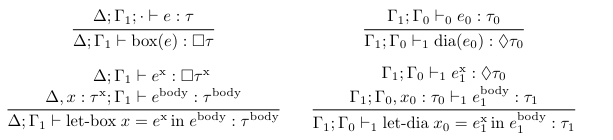
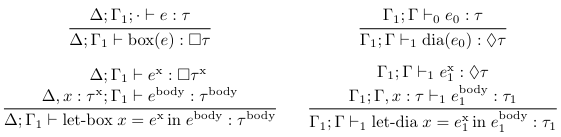
remove 0 suffix where possible
I was previously using the 0 suffix everywhere, for symmetry, but this
led to confusing rules like "x0 => x" which is supposed to mean "rename
the variable by dropping the 0 suffix". without the 0 suffix, this rule
now reads "x => x", which is very clear: return the input unchanged.

diff --git a/latex/staged-diamond-calculus.tex b/latex/staged-diamond-calculus.tex
@@ -32,8 +32,8 @@
                    }}}
                 \vspace{1ex}
                 \\
-         e_0 ::= & x_0
-              \mid \lambda x_0.\,e_0
+         e_0 ::= & x
+              \mid \lambda x.\,e_0
               \mid e_0\;e_0
               \mid \text{\$splice}\;e_1
                  & \hspace{2em} &
@@ -45,7 +45,7 @@
             \mid & \text{\$let-macro}\;x_1 = e_1\,\text{in}\;e_0
                  & \hspace{2em}
                  & 
-            \mid & \text{let-dia}\;x_0 = e_1\,\text{in}\;e_1
+            \mid & \text{let-dia}\;x = e_1\,\text{in}\;e_1
                 \vspace{1ex}
                 \\
            e ::= & x
@@ -53,10 +53,10 @@
               \mid e\;e
                 \vspace{1ex}
                 \\
-\tau_0, \tau ::= & \tau \to \tau
+        \tau ::= & \tau \to \tau
                  & \hspace{2em} &
       \tau_1 ::= & \tau_1 \to \tau_1
-              \mid \Diamond \tau_0
+              \mid \Diamond \tau
                 \vspace{1ex}
                 \\
            v ::= & \lambda x.\,e
@@ -65,15 +65,11 @@
               \mid \text{dia}(e)
                 \vspace{1ex}
                 \\
-    \Gamma_0 ::= & \cdot
-              \mid \Gamma_0, x_0 : \tau_0
+      \Gamma ::= & \cdot
+              \mid \Gamma, x : \tau
                  & \hspace{2em} &
     \Gamma_1 ::= & \cdot
               \mid \Gamma_1, x_1 : \tau_1
-                \vspace{1ex}
-                \\
-      \Gamma ::= & \cdot
-              \mid \Gamma, x : \tau
 \end{array}
 \]
 
@@ -127,11 +123,11 @@
 \noindent
 \[\arraycolsep=0em
 \begin{array}{ccccc}
-  \boxed{\Gamma_1; \Gamma_0 \vdash_0 e_0 :\tau_0}
+  \boxed{\Gamma_1; \Gamma \vdash_0 e_0 :\tau}
   &
   \boxed{\Gamma \vdash e :\tau}
   &
-  \boxed{\Gamma_1; \Gamma_0 \vdash_1 e_1 :\tau_1}
+  \boxed{\Gamma_1; \Gamma \vdash_1 e_1 :\tau_1}
 \vspace{3ex}
 \\
   &
@@ -140,8 +136,8 @@
 \vspace{1ex}
 \\
   \trfrac
-  {x_0 :\tau_0 \in \Gamma_0}
-  {\Gamma_1; \Gamma_0 \vdash_0 x_0 :\tau_0}
+  {x :\tau \in \Gamma}
+  {\Gamma_1; \Gamma \vdash_0 x : \tau}
   &
   \trfrac
   {x :\tau \in \Gamma}
@@ -149,32 +145,32 @@
   &
   \trfrac
   {x_1 :\tau_1 \in \Gamma_1}
-  {\Gamma_1; \Gamma_0 \vdash_1 x_1 :\tau_1}
+  {\Gamma_1; \Gamma \vdash_1 x_1 :\tau_1}
 \vspace{2ex}
 \\
   \trfrac
-  {\Gamma_1; \Gamma_0, x_0 : \tau^{\text{in}}_0 \vdash_0 e_0 : \tau^{\text{out}}_0}
-  {\Gamma_1; \Gamma_0 \vdash_0 \lambda x_0.\,e_0 :\tau^{\text{in}}_0 \to \tau^{\text{out}}_0}
+  {\Gamma_1; \Gamma, x : \tau^{\text{in}}_0 \vdash_0 e_0 : \tau^{\text{out}}_0}
+  {\Gamma_1; \Gamma \vdash_0 \lambda x.\,e_0 :\tau^{\text{in}}_0 \to \tau^{\text{out}}_0}
   &
   \trfrac
   {\Gamma, x : \tau^{\text{in}} \vdash e : \tau^{\text{out}}}
   {\Gamma \vdash \lambda x.\,e :\tau^{\text{in}} \to \tau^{\text{out}}}
   &
   \trfrac
-  {\Gamma_1, x_1 : \tau^{\text{in}}_1; \Gamma_0 \vdash_0 e_1 : \tau^{\text{out}}_1}
-  {\Gamma_1; \Gamma_0 \vdash_1 \lambda x_1.\,e_1 :\tau^{\text{in}}_1 \to \tau^{\text{out}}_1}
+  {\Gamma_1, x_1 : \tau^{\text{in}}_1; \Gamma \vdash_0 e_1 : \tau^{\text{out}}_1}
+  {\Gamma_1; \Gamma \vdash_1 \lambda x_1.\,e_1 :\tau^{\text{in}}_1 \to \tau^{\text{out}}_1}
 \vspace{2ex}
 \\
   \trfrac
   {
     \begin{trgather}
-    \Gamma_1; \Gamma_0 \vdash_0 e^{\text{fun}}_0 : \tau^{\text{in}}_0 \to \tau^{\text{out}}_0
+    \Gamma_1; \Gamma \vdash_0 e^{\text{fun}}_0 : \tau^{\text{in}}_0 \to \tau^{\text{out}}_0
     \vspace{0.5ex}
     \\
-    \Gamma_1; \Gamma_0 \vdash_0 e^{\text{in}}_0 : \tau^{\text{in}}_0
+    \Gamma_1; \Gamma \vdash_0 e^{\text{in}}_0 : \tau^{\text{in}}_0
     \end{trgather}
   }
-  {\Gamma_1; \Gamma_0 \vdash_0 e^{\text{fun}}_0\;e^{\text{in}}_0 : \tau^{\text{out}}_0}
+  {\Gamma_1; \Gamma \vdash_0 e^{\text{fun}}_0\;e^{\text{in}}_0 : \tau^{\text{out}}_0}
   &
   \trfrac
   {
@@ -190,13 +186,13 @@
   \trfrac
   {
     \begin{trgather}
-    \Gamma_1; \Gamma_0 \vdash_1 e^{\text{fun}}_1 : \tau^{\text{in}}_1 \to \tau^{\text{out}}_1
+    \Gamma_1; \Gamma \vdash_1 e^{\text{fun}}_1 : \tau^{\text{in}}_1 \to \tau^{\text{out}}_1
     \vspace{0.5ex}
     \\
-    \Gamma_1; \Gamma_0 \vdash_1 e^{\text{in}}_1 : \tau^{\text{in}}_1
+    \Gamma_1; \Gamma \vdash_1 e^{\text{in}}_1 : \tau^{\text{in}}_1
     \end{trgather}
   }
-  {\Gamma_1; \Gamma_0 \vdash_1 e^{\text{fun}}_1\;e^{\text{in}}_1 : \tau^{\text{out}}_1}
+  {\Gamma_1; \Gamma \vdash_1 e^{\text{fun}}_1\;e^{\text{in}}_1 : \tau^{\text{out}}_1}
 \vspace{3ex}
 \\
   &
@@ -207,35 +203,35 @@
   \trfrac
   {
     \begin{trgather}
-    \Gamma_1; \Gamma_0 \vdash_1 e_1 : \tau_1
+    \Gamma_1; \Gamma \vdash_1 e_1 : \tau_1
     \vspace{0.5ex}
     \\
-    \Gamma_1, x_1 : \tau_1; \Gamma_0 \vdash_0 e_0 : \tau_0
+    \Gamma_1, x_1 : \tau_1; \Gamma \vdash_0 e_0 : \tau
     \end{trgather}
   }
-  {\Gamma_1; \Gamma_0 \vdash_0 \text{\$let-macro}\;x_1 = e_1\,\text{in}\;e_0 : \tau_0}
+  {\Gamma_1; \Gamma \vdash_0 \text{\$let-macro}\;x_1 = e_1\,\text{in}\;e_0 : \tau}
   &
   &
   \trfrac
   {
     \begin{trgather}
-    \Gamma_1; \Gamma_0 \vdash_1 e^{\text{x}}_1 : \Diamond \tau_0
+    \Gamma_1; \Gamma \vdash_1 e^{\text{x}}_1 : \Diamond \tau
     \vspace{0.5ex}
     \\
-    \Gamma_1; \Gamma_0, x_0 : \tau_0 \vdash_1 e^{\text{body}}_1 : \tau_1
+    \Gamma_1; \Gamma, x : \tau \vdash_1 e^{\text{body}}_1 : \tau_1
     \end{trgather}
   }
-  {\Gamma_1; \Gamma_0 \vdash_1 \text{let-dia}\;x_0 = e^{\text{x}}_1\,\text{in}\;e^{\text{body}}_1 : \tau_1}
+  {\Gamma_1; \Gamma \vdash_1 \text{let-dia}\;x = e^{\text{x}}_1\,\text{in}\;e^{\text{body}}_1 : \tau_1}
 \vspace{2ex}
 \\
   \trfrac
-  {\Gamma_1; \Gamma_0 \vdash_1 e_1 : \Diamond \tau_0}
-  {\Gamma_1; \Gamma_0 \vdash_0 \text{\$splice}\;e_1 : \tau_0}
+  {\Gamma_1; \Gamma \vdash_1 e_1 : \Diamond \tau}
+  {\Gamma_1; \Gamma \vdash_0 \text{\$splice}\;e_1 : \tau}
   &
   &
   \trfrac
-  {\Gamma_1; \Gamma_0 \vdash_0 e_0 : \tau_0}
-  {\Gamma_1; \Gamma_0 \vdash_1 \text{dia}(e_0) : \Diamond \tau_0}
+  {\Gamma_1; \Gamma \vdash_0 e_0 : \tau}
+  {\Gamma_1; \Gamma \vdash_1 \text{dia}(e_0) : \Diamond \tau}
 \end{array}
 \]
 
@@ -382,10 +378,10 @@
     e^{\text{x}}_1 \Downarrow_1 \text{dia}(e)
     \vspace{0.5ex}
     \\
-    e^{\text{body}}_1[x_0:=e] \Downarrow_1 v_1
+    e^{\text{body}}_1[x:=e] \Downarrow_1 v_1
     \end{trgather}
   }
-  {\text{let-dia}\;x_0 = e^{\text{x}}_1\,\text{in}\;e^{\text{body}}_1 \Downarrow_1 v_1}
+  {\text{let-dia}\;x = e^{\text{x}}_1\,\text{in}\;e^{\text{body}}_1 \Downarrow_1 v_1}
 \vspace{2ex}
 \\
   &
@@ -417,11 +413,11 @@
 \\
   \trfrac
   {}
-  {x_0 \Downarrow_{\text{E}} x}
+  {x \Downarrow_{\text{E}} x}
   \hspace{2em} 
   \trfrac
   {e_0 \Downarrow_{\text{E}} e}
-  {\lambda x_0.\,e_0 \Downarrow_{\text{E}} \lambda x.\,e}
+  {\lambda x.\,e_0 \Downarrow_{\text{E}} \lambda x.\,e}
   &
   &
   \trfrac
@@ -537,8 +533,8 @@
   {\Delta; \Gamma_1 \vdash \text{box}(e) : \Box \tau}
   & \hspace{2em} &
   \trfrac
-  {\Gamma_1; \Gamma_0 \vdash_0 e_0 : \tau_0}
-  {\Gamma_1; \Gamma_0 \vdash_1 \text{dia}(e_0) : \Diamond \tau_0}
+  {\Gamma_1; \Gamma \vdash_0 e_0 : \tau}
+  {\Gamma_1; \Gamma \vdash_1 \text{dia}(e_0) : \Diamond \tau}
 \vspace{2ex}
 \\
   \trfrac
@@ -555,13 +551,13 @@
   \trfrac
   {
     \begin{trgather}
-    \Gamma_1; \Gamma_0 \vdash_1 e^{\text{x}}_1 : \Diamond \tau_0
+    \Gamma_1; \Gamma \vdash_1 e^{\text{x}}_1 : \Diamond \tau
     \vspace{0.5ex}
     \\
-    \Gamma_1; \Gamma_0, x_0 : \tau_0 \vdash_1 e^{\text{body}}_1 : \tau_1
+    \Gamma_1; \Gamma, x : \tau \vdash_1 e^{\text{body}}_1 : \tau_1
     \end{trgather}
   }
-  {\Gamma_1; \Gamma_0 \vdash_1 \text{let-dia}\;x_0 = e^{\text{x}}_1\,\text{in}\;e^{\text{body}}_1 : \tau_1}
+  {\Gamma_1; \Gamma \vdash_1 \text{let-dia}\;x = e^{\text{x}}_1\,\text{in}\;e^{\text{body}}_1 : \tau_1}
 \end{array}
 \]
 

diff --git a/README.md b/README.md
@@ -25,24 +25,24 @@ A variant of Pfenning and Davies's Staged Modal Calculus with Diamond instead of
 
 Here is a example program.
 ```
-(define (cube0 x0)
+(define (cube x)
   ($let-macro [(power1 n1)
                (case n1
                  [0
                   (dia 1)]
                  [1
-                  (dia x0)]
+                  (dia x)]
                  [_
-                  (let-dia [recur0 (power1 (- n1 1))]
-                    (dia (* x0 recur0)))])]
+                  (let-dia [recur (power1 (- n1 1))]
+                    (dia (* x recur)))])]
     ($splice (power1 3))))
 ```
 
 The variables
 ```
-cube0 :: Int -> Int
-x0 :: Int
-recur0 :: Int
+cube :: Int -> Int
+x :: Int
+recur :: Int
 ```
 all live in stage 0, while the variables
 ```
@@ -50,29 +50,28 @@ power1 :: Int -> Dia Int
 n1 :: Int
 ```
 live in stage 1. The stage-1 expression `(power1 3)` assembles the stage-0 code
-`(* x0 (* x0 x0))` (note the absence of administrative redexes), and `$splice`
+`(* x (* x x))` (note the absence of administrative redexes), and `$splice`
 inserts that code where `$splice` is called, thus resulting in the following
-fully-expanded program. By convention, the 0 suffixes are dropped once expansion
-is complete.
+fully-expanded program.
 ```
 (define (cube x)
   (* x (* x x)))
 ```
 
-Note how `(dia x0)` and `(dia (* x0 recur0))` refer to the variable `x0`,
-something which is not possible with `box`. This extra expressiveness comes with
-an extra obligation: we must ensure that this stage-0 code is only ever spliced
-in a context where `x0` is in scope. The calculus is carefully designed to
-guarantee this.
+Note how `(dia x)` and `(dia (* x recur))` refer to the variable `x`, something
+which is not possible with `box`. This extra expressiveness comes with an extra
+obligation: we must ensure that this stage-0 code is only ever spliced in a
+context where `x` is in scope. The calculus is carefully designed to guarantee
+this.
 
-In this case, the `x0` variable is in scope in the `dia` code fragments because
+In this case, the `x` variable is in scope in the `dia` code fragments because
 they are within a `$let-macro` expression which is itself in a context where
-`x0` is in scope. The code fragments can be moved around and assembled into
+`x` is in scope. The code fragments can be moved around and assembled into
 larger code fragments, but only within the `$let-macro`; there are no mutable
 variables or exceptions which would allow the code fragments to be smuggled to
-another part of the phase-1 code, outside the scope where `x0` is bound. The
+another part of the phase-1 code, outside the scope where `x` is bound. The
 only thing which can be done with those code fragments is to `$splice` them
-within the body of the `$let-macro`, where it is safe to do so because `x0` is
+within the body of the `$let-macro`, where it is safe to do so because `x` is
 in scope.
 
 ### Example 2
@@ -86,22 +85,22 @@ Here is a slight variant of the above example.
                [1
                 x1]
                [_
-                (let-dia [recur0 (power1 (- n1 1) x1)]
-                  (let-dia [x0 x1])
-                    (dia (* x0 recur0)))])]
-  (define (square0 x0)
-    ($splice (power1 2 (dia x0))))
-  (define (cube0 x0)
-    ($splice (power1 3 (dia x0)))))
+                (let-dia [recur (power1 (- n1 1) x1)]
+                  (let-dia [x x1])
+                    (dia (* x recur)))])]
+  (define (square x)
+    ($splice (power1 2 (dia x))))
+  (define (cube x)
+    ($splice (power1 3 (dia x)))))
 ```
 
 This time, thanks to its `x1 :: Dia Int` argument, `power1` receives a code
-fragment which refers to a variable `x0` which is _not_ in scope around the
+fragment which refers to a variable `x` which is _not_ in scope around the
 `$let-macro`. This is still safe because `power1` still cannot smuggle the code
-fragment anywhere, it can only return a code fragment which refers to `x0` to
-its call site, and this is fine since the variable `x0` is in scope at that call
+fragment anywhere, it can only return a code fragment which refers to `x` to
+its call site, and this is fine since the variable `x` is in scope at that call
 site. This time, it is `$splice` which acts as a boundary ensuring that
-`(dia x0)` cannot be spliced somewhere in which `x0` is not in scope.
+`(dia x)` cannot be spliced somewhere in which `x` is not in scope.
 
 [Here is what this example actually looks like](https://github.com/gelisam/staged-diamond-type-theory/blob/6772937056cd78966a8ebaedb6c41cd544273aed/src/toy.rkt#L1148-L1167) in the implementation.
 
